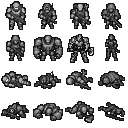
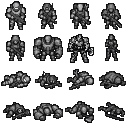
feat: a little spray on every hit a body lives through; fallen sprites all drawn hit-from-the-left and mirrored in the death scene (3.176.0)
- Hit gore: every harmful, non-lethal hit on the operative, an enemy or an ally throws a few drops and a wisp of
  mist (sparks off machines) away from the shooter, about a tenth of a kill, under the same setting; stains stay,
  dark rooms darken them. The presentation marks such impacts with `hit`.
- The user calibrated the eight fallen sprites on a preview page; tools/normalize_fallen_facing.py mirrors the six
  drawn as hit from the right (per-sprite PNGs, atlas cells, atlas.json hashes; idempotent). The killed-in-action
  scene mirrors the fallen sprite when the blow comes from the right.

Changed region(s): [[0.0, 0.5312, 1.0, 0.7188], [0.0, 0.7812, 0.5, 0.9688]]

diff --git a/sw.js b/sw.js
@@ -1,4 +1,4 @@
-const CACHE='ash-protocol-v3-175-1';
+const CACHE='ash-protocol-v3-176-0';
 const FILES=['./src/i18n.js','./src/text-zh-tw.js','./src/text-en.js','./src/localize-dom.js','./src/voices-zh-tw.js','./src/voices-en.js','./src/comms.js','./src/comms-events.js','./src/duty.js','./src/kia.js','./src/kia-art.js','./src/gore.js','./src/gore-art.js','./assets/pixel/comms-v1/egret.png','./assets/pixel/comms-v1/wren.png','./src/screen-tone.js','./src/pixel-text.js','./src/muzzle-flash.js','./src/deck-layout.js','./src/result-copy.js','./src/shotgun.js','./src/story-data.js','./src/unlock-catalog.js','./src/run-unlocks.js','./src/unlock-ui.js','./src/workshop.js','./','./index.html','./style.css','./expansion.css','./src/main.js','./src/controller.js','./src/replay.js','./src/squad.js','./src/rebels.js','./src/detour.js','./src/orders.js','./src/ambush.js','./src/flank.js','./src/line-move.js','./src/personality.js','./src/pounce.js','./src/swarm-fields.js','./src/lines.js','./src/melee-weapons.js','./src/faction-decals.js','./src/color-picker.js','./src/lance.js','./src/field-gear.js','./src/vault.js','./src/screen-shake.js','./src/signal-glitch.js','./src/status-timers.js','./src/blind-fire.js','./src/range-band.js','./src/pits.js','./src/loot-icons.js','./assets/pixel/loot-icons-v1/atlas.png','./assets/pixel/faction-decals-v1/atlas.png','./src/terminal-kinds.js','./src/daily.js','./src/version.js','./src/engine.js','./src/data.js','./src/enemy-data.js','./src/swarm.js','./src/poison.js','./src/purge-review.js','./src/purge-review-ui.js','./src/killhouse-ui.js','./src/swarm-waves.js','./src/swarm-tuning.js','./src/civilians.js','./src/factions.js','./src/faction-catalog.js','./src/enemy-visuals.js','./src/endless.js','./src/endless-ui.js','./src/world.js','./src/map-recipes.js','./src/map-recipes-data.js','./assets/pixel/doors-v1/atlas.png','./src/map-geometry.js','./src/map-population.js','./src/map-merging.js','./src/map-openings.js','./src/map-annexes.js','./src/map-slots.js','./src/scenery.js','./src/barrier-art.js','./assets/pixel/scenery-v1/atlas.png','./src/barriers.js','./src/containers.js','./src/modules.js','./src/missions.js','./src/retreat.js','./src/traces.js','./src/themes.js','./src/walls.js','./src/art-tone.js','./src/materials.js','./src/material-selection.js','./src/material-review.js','./material-review.html','./src/combat.js','./src/cover.js','./src/lighting.js','./src/traits.js','./src/melee-classes.js','./src/melee-ui.js','./src/operator-color.js','./src/throwables.js','./src/prepared.js','./src/skills.js','./src/allies.js','./src/pet-growth.js','./src/pet-ui.js','./src/characters.js','./src/actor-stats.js','./src/portraits.js','./src/camera.js','./src/runtime-enemies.js','./src/nest-art.js','./assets/pixel/nests-v1/atlas.png','./src/unarmed.js','./src/suppression.js','./src/suppression-ui.js','./src/suppressive-fire.js','./src/learning-data.js','./src/learning.js','./src/enemy-affixes.js', './src/elite-enemies.js','./src/affix-ui.js','./src/deploy-ui.js','./src/callout-ui.js','./src/enemy-intents.js','./src/enemy-behavior.js','./src/behavior-tree.js','./src/real-mode.js','./src/callouts.js','./src/killhouse.js','./src/killhouse-maps.js','./src/killhouse-policy.js','./src/killhouse-profile.js','./src/map-styles.js','./assets/pixel/killhouse-v1/atlas.png','./assets/pixel/killhouse-v2/atlas.png','./src/game.js','./src/corner.js','./src/tactics.js','./src/perks.js','./src/storage.js','./src/progression.js','./src/ammunition.js','./src/weapons.js','./src/backup.js','./src/layout.js','./src/target-card.js','./src/presentation.js','./src/actor-visuals.js','./src/class-perks.js','./src/render.js','./src/renderer.js','./src/class-art.js','./assets/pixel/classes-v1/atlas.png','./src/movement-boundaries.js','./src/audio.js','./src/sound-cues.js','./src/music-state.js','./src/audio-grit.js','./src/frame-rate.js','./src/terminal.js','./src/hotkeys.js','./src/flares.js','./assets/audio/sfx/rifle.wav','./assets/audio/sfx/shotgun.wav','./assets/audio/sfx/smg.wav','./assets/audio/sfx/precision.wav','./assets/audio/sfx/plasma.wav','./assets/audio/sfx/hit.wav','./assets/audio/sfx/kill.wav','./assets/audio/sfx/enemy-miss.wav','./assets/audio/sfx/blast.wav','./assets/audio/sfx/footstep.wav','./assets/audio/sfx/reload.wav','./assets/audio/sfx/heal.wav','./assets/audio/sfx/transmission.wav','./assets/audio/sfx/door.wav','./assets/audio/sfx/select.wav','./assets/audio/sfx/lmg.wav','./assets/audio/sfx/creature-attack.wav','./assets/audio/sfx/throw.wav','./assets/audio/sfx/pickup.wav','./assets/audio/sfx/open-case.wav','./assets/audio/sfx/hurt.wav','./assets/icon.svg','./assets/operator.svg','./assets/rifle.svg','./assets/lmg.svg','./assets/thunder.svg','./assets/powerfist.svg','./assets/shotgun.svg','./assets/smg.svg','./assets/sniper.svg','./assets/plasma.svg','./assets/launcher.svg','./assets/pixel/atlas.png','./assets/pixel/terrain-v1/atlas.png','./assets/pixel/walls-v1/atlas.png','./assets/pixel/aftermath.png','./assets/pixel/player.png','./assets/pixel/portraits/ember.png','./assets/pixel/portraits/onyx.png','./assets/pixel/portraits/silver.png','./assets/pixel/portraits/cedar.png','./assets/pixel/portraits/portrait-05.png','./assets/pixel/portraits/portrait-06.png','./assets/pixel/portraits/portrait-07.png','./assets/pixel/portraits/portrait-08.png','./assets/pixel/portraits/portrait-09.png','./assets/pixel/portraits/portrait-10.png','./assets/pixel/portraits/portrait-11.png','./assets/pixel/portraits/portrait-12.png','./assets/pixel/portraits/portrait-13.png','./assets/pixel/portraits/portrait-14.png','./assets/pixel/portraits/portrait-15.png','./assets/pixel/portraits/portrait-16.png','./manifest.webmanifest'];
 self.addEventListener('install',event=>{event.waitUntil(caches.open(CACHE).then(cache=>cache.addAll(FILES.map(url=>new Request(url,{cache:'reload'})))));self.skipWaiting();});
 self.addEventListener('activate',event=>{event.waitUntil(caches.keys().then(keys=>Promise.all(keys.filter(k=>k.startsWith('ash-protocol-')&&k!==CACHE).map(k=>caches.delete(k)))));self.clients.claim();});

diff --git a/src/renderer.js b/src/renderer.js
@@ -31,7 +31,7 @@ import {WALL_ATLAS,drawWall} from './walls.js';
 import {drawTrace} from './traces.js';
 import {drawKiaGround,drawKiaBody,drawKiaAir} from './kia-art.js';
 import {drawBurstAir,Splatter} from './gore-art.js';
-import {enemyBurst,burstLife} from './gore.js';
+import {enemyBurst,hitBurst,burstLife} from './gore.js';
 import {THEMES,themeAt,resolveSprite} from './themes.js';
 import {missionObjects,missionTarget} from './missions.js';
 import {MODULE_TYPES,moduleCells,modulePoint} from './modules.js';
@@ -623,7 +623,9 @@ if((p.hp>0||p.type==='terminal')&&this.sprite(p.type,a,32)){this.objectHealth(p,
   }
   addEffects(effects,elapsed=0){const start=this.time-Math.max(0,elapsed);
     // 3.175.0 kill gore (src/gore.js): a kill with a direction bursts on the far side; how much follows the setting.
-    for(const e of effects)if(e.type==='fall'&&e.actorType!=='player'&&e.blow&&this.gore&&this.goreLevel!=='off'){const g=this.game,seed=((g.seed|0)*31+(g.turn|0)*977+e.to.x*57+e.to.y)|0,burst=enemyBurst(seed,e.blow,{kind:e.gore,size:e.size,elite:e.elite,level:this.goreLevel,style:e.force?.style,damage:e.force?.damage});if(burst)this.gore.push({start,at:{x:e.to.x,y:e.to.y},burst,life:burstLife(burst)*1000});}for(const e of effects)if(e.type==='callout')(this.callouts??=new CalloutBoard()).add(e,start);this.effects.push(...effects.filter(e=>e.type!=='callout').map(e=>({...e,time:start})));this.effects=this.effects.slice(-64);const kicks=shakeImpulses(effects,this.game.player,start);if(this.shakeEnabled)this.shakes=[...liveImpulses(this.shakes,this.time),...kicks].slice(-24);
+    for(const e of effects)if(e.type==='fall'&&e.actorType!=='player'&&e.blow&&this.gore&&this.goreLevel!=='off'){const g=this.game,seed=((g.seed|0)*31+(g.turn|0)*977+e.to.x*57+e.to.y)|0,burst=enemyBurst(seed,e.blow,{kind:e.gore,size:e.size,elite:e.elite,level:this.goreLevel,style:e.force?.style,damage:e.force?.damage});if(burst)this.gore.push({start,at:{x:e.to.x,y:e.to.y},burst,life:burstLife(burst)*1000});}
+    // 3.176.0 hit gore: a small spray for every harmful hit a body lives through.
+    for(const e of effects)if(e.type==='impact'&&e.hit?.blow&&this.gore&&this.goreLevel!=='off'){const g=this.game,seed=((g.seed|0)*37+(g.turn|0)*1009+e.to.x*61+e.to.y*7+this.gore.length)|0,burst=hitBurst(seed,e.hit.blow,{kind:e.hit.gore,size:e.hit.size,level:this.goreLevel,style:e.hit.force?.style,damage:e.damage});if(burst)this.gore.push({start,at:{x:e.to.x,y:e.to.y},burst,life:burstLife(burst)*1000});}for(const e of effects)if(e.type==='callout')(this.callouts??=new CalloutBoard()).add(e,start);this.effects.push(...effects.filter(e=>e.type!=='callout').map(e=>({...e,time:start})));this.effects=this.effects.slice(-64);const kicks=shakeImpulses(effects,this.game.player,start);if(this.shakeEnabled)this.shakes=[...liveImpulses(this.shakes,this.time),...kicks].slice(-24);
     if(this.glitchEnabled){const r=effectGlitches(effects,this.game,start,kicks);this.glitches=[...liveGlitches(this.glitches,this.time),...r.screen].slice(-24);for(const o of r.objects)this.objectGlitches.set(o.key,o);if(r.hit)this.onPlayerHit?.();}}
   // 3.149.0 signal interference: the state-driven glitches, then the whole-frame one.
   glitchFrame(){

diff --git a/src/presentation.js b/src/presentation.js
@@ -86,6 +86,17 @@ export function mergeMoveSteps(steps){
   if(group)merged.push(group);
   return merged;
 }
+// Who stands on `at` after the step and is still alive: the operative, or an enemy or ally (not a pet).
+function livingBody(state,at){
+  if(!at)return null;
+  const p=state.player;if(p&&p.hp>0&&p.x===at.x&&p.y===at.y)return {player:true};
+  const actor=[...(state.enemies||[]),...(state.allies||[])].find(e=>e.hp>0&&e.kind!=='pet'&&e.x===at.x&&e.y===at.y);
+  return actor?{actor}:null;
+}
+function hitInfo(effects,at,body){
+  const types=body.player?['enemyShot']:ENEMY_BLOWS,actor=body.actor;
+  return {blow:killingBlow(effects,at,types),force:goreForce(effects,at,types),gore:body.player?'flesh':goreKind(actor),size:body.player?1:goreSize(actor.maxHp||enemyDef(actor)?.hp)};
+}
 export function planPresentation(steps,{reduceMotion=false}={}){
   const events=[];let time=0;
   if(!reduceMotion)steps=mergeMoveSteps(steps);
@@ -106,6 +117,9 @@ export function planPresentation(steps,{reduceMotion=false}={}){
     // 3.174.0: the operative's fall carries the killing blow's direction for the killed-in-action scene (src/kia.js);
     // 3.175.0: every other fall carries it too, with what the body is made of, for kill gore (src/gore.js).
     for(const dead of deaths)impacts.push({type:'fall',actorType:dead.type,from:{x:dead.x,y:dead.y},to:{x:dead.x,y:dead.y},damage:0,...(dead.type==='player'?{blow:killingBlow(step.effects,dead)}:{blow:killingBlow(step.effects,dead,ENEMY_BLOWS),force:goreForce(step.effects,dead,ENEMY_BLOWS),gore:goreKind(dead),size:goreSize(dead.maxHp||enemyDef(dead)?.hp),elite:Boolean(dead.elite)})});
+    // 3.176.0 hit gore: a harmful hit on a body that lives through it carries what the renderer needs for a small
+    // spray (src/gore.js hitBurst). Hits on props and on bodies that fell this step (their fall bursts) carry nothing.
+    for(let i=0;i<impacts.length;i++){const e=impacts[i],body=e.type==='impact'&&e.damage>0?livingBody(step.after,e.to):null;if(body)impacts[i]={...e,hit:hitInfo(step.effects,e.to,body)};}
     const player=step.before.player,settle=reduceMotion?120:DEATH_MS;
     const far=deaths.filter(dead=>dead.type!=='player'&&step.before.enemies.some(b=>b.id===dead.id&&step.before.visible?.(b))&&Math.max(Math.abs(dead.x-player.x),Math.abs(dead.y-player.y))>=KILL_HOLD_REACH);
     for(const dead of far)impacts.push({type:'cameraHold',from:{x:dead.x,y:dead.y},to:{x:dead.x,y:dead.y},duration:settle+KILL_HOLD_MS,damage:0});

diff --git a/src/gore.js b/src/gore.js
@@ -99,6 +99,18 @@ export function enemyBurst(seed,blow,{kind='flesh',size=1,elite=false,level='ful
     cone:shape.cone*cone,reach:shape.reach*(.8+.2*force)*reach,mistSize:shape.mist*mistSize*Math.sqrt(body),aim});
 }
 
+// 3.176.0 (user request): every harmful hit that a body lives through throws a little — a few drops and a wisp of mist,
+// or a few sparks off a machine, and a pinprick of light — away from the shot. About a tenth of a kill; the kind of
+// round, the harm and the body's size still shape it, a little. The same setting governs it.
+export const HIT_TUNING=Object.freeze({blood:.11,light:.15,glow:.3,reach:.45,mist:.6});
+export function hitBurst(seed,blow,{kind='flesh',size=1,level='full',style='bullet',damage=10}={}){
+  if(!blow||level==='off')return null;
+  const t=HIT_TUNING,shape=GORE_STYLES[style]||GORE_STYLES.bullet,force=goreForceScale(damage);
+  const j=rng(seed^0x27d4eb2f),vary=(lo,hi)=>lo+(hi-lo)*j();
+  return makeBurst(seed,blow,{kind,blood:t.blood*shape.amount*force*Math.sqrt(size)*vary(.75,1.3),glow:t.glow*shape.glow,light:level==='simple'?0:t.light*Math.min(1.5,shape.glow),
+    cone:shape.cone*vary(.8,1.2),reach:t.reach*shape.reach*(.8+.2*force)*vary(.8,1.25),mistSize:t.mist*shape.mist*vary(.8,1.2),aim:vary(-.15,.15)});
+}
+
 // How long a burst stays in the air, in world seconds (after this only its stains remain).
 export const burstLife=burst=>burst?Math.max(.32,...burst.drops.map(d=>d.land),...burst.mist.map(m=>m.life),...burst.sparks.map(s=>s.life)):0;
 // Distance out along a piece's path `s` world seconds after the burst: the pop, then an easing drift.

diff --git a/src/kia-art.js b/src/kia-art.js
@@ -37,8 +37,11 @@ export function drawKiaBody(r,a,character,time,dark=false){
     const q=easeOut(f/.45),tilt=(blow?Math.sign(dx||1)*.3:.15)*q;
     c.save();c.translate(Math.round(a.x+dx*kick*q),Math.round(a.y+dy*kick*q+t*.03*q));c.rotate(tilt);r.classSprite({x:0,y:0},size,character,false,dark);c.restore();
   }else{
-    const q=easeOut((f-.45)/.55);
-    r.classSprite({x:a.x+dx*kick+(1-q)*t*.044,y:a.y+dy*kick-(1-q)*t*.088+t*.03},size,character,true,dark);
+    // 3.176.0: every fallen sprite is drawn as if knocked down from the left (tools/normalize_fallen_facing.py, the
+    // user's calibration); a blow from the right mirrors it, so the body lies the way the slow motion tipped it.
+    const q=easeOut((f-.45)/.55),side=dx<0?-1:1,x=a.x+dx*kick+(1-q)*t*.044*side,y=a.y+dy*kick-(1-q)*t*.088+t*.03;
+    if(side<0){c.save();c.translate(Math.round(x),Math.round(y));c.scale(-1,1);r.classSprite({x:0,y:0},size,character,true,dark);c.restore();}
+    else r.classSprite({x,y},size,character,true,dark);
   }
 }
 function flash(r,a,size,character,color){

diff --git a/src/version.js b/src/version.js
@@ -1,3 +1,3 @@
 // The one place the game version lives (3.44.1). `npm run bump -- x.y.z` rewrites it together with package.json
 // and the sw.js cache name; tests/release.test.mjs fails if the three disagree.
-export const VERSION='3.175.1';
+export const VERSION='3.176.0';

diff --git a/tools/normalize_fallen_facing.py b/tools/normalize_fallen_facing.py
@@ -1,0 +1,52 @@
+"""Makes every class's fallen sprite read as "knocked down by an attack from the left" (3.176.0).
+
+python tools/normalize_fallen_facing.py
+
+The user calibrated the eight fallen sprites on a preview page (2026-09-24,
+https://claude.ai/artifact/MMDyJr4CXFAGRNwRoe2oRL): six were drawn as if hit from the right, so they are mirrored
+here, once. The killed-in-action scene then mirrors the fallen sprite whenever the killing blow comes from the right
+(src/kia-art.js). The per-sprite PNGs and their cells in atlas.png are flipped together and atlas.json records the new
+hashes; a sprite whose hash no longer matches its pre-flip hash is left alone, so running this again changes nothing.
+tools/pixelize_classes.py rebuilds the original (unflipped) art; run this after it if that is ever done.
+"""
+from pathlib import Path
+import hashlib, json
+from PIL import Image, ImageOps
+
+ROOT = Path(__file__).resolve().parents[1]
+OUT = ROOT / 'assets/pixel/classes-v1'
+# The user's calibration: the fallen art of these classes was drawn as if hit from the right.
+FROM_RIGHT = ['soldier', 'recon', 'engineer', 'druid', 'necromancer', 'bulwark']
+
+def sha(path):
+    return hashlib.sha256(path.read_bytes()).hexdigest()
+
+def main():
+    meta_path = OUT / 'atlas.json'
+    meta = json.loads(meta_path.read_text(encoding='utf-8'))
+    record = meta.setdefault('fallen_facing', {'from': 'left', 'calibrated': '2026-09-24', 'flipped': {}})
+    atlas = Image.open(OUT / 'atlas.png').convert('RGBA')
+    changed = []
+    for name in FROM_RIGHT:
+        key = f'dead-{name}'
+        path, entry = OUT / f'{key}.png', meta['sprites'][key]
+        current = sha(path)
+        if name in record['flipped']:
+            if current != record['flipped'][name]['after']:
+                raise SystemExit(f'{key}.png changed since it was flipped; check it by hand')
+            continue
+        sprite = Image.open(path)
+        flipped = ImageOps.mirror(sprite)
+        flipped.info['transparency'] = 0
+        flipped.save(path, transparency=0, bits=4, optimize=True)
+        atlas.paste(ImageOps.mirror(atlas.crop((entry['x'], entry['y'], entry['x'] + 32, entry['y'] + 32))), (entry['x'], entry['y']))
+        entry['sha256'] = sha(path)
+        record['flipped'][name] = {'before': current, 'after': entry['sha256']}
+        changed.append(key)
+    if changed:
+        atlas.save(OUT / 'atlas.png', optimize=True)
+        meta_path.write_text(json.dumps(meta, indent=2) + chr(10), encoding='utf-8')   # the format tools/pixelize_classes.py writes
+    print('flipped:', ', '.join(changed) if changed else 'nothing (already done)')
+
+if __name__ == '__main__':
+    main()

diff --git a/docs/HANDOFF.md b/docs/HANDOFF.md
@@ -1,6 +1,6 @@
 # 快速接手：ASH PROTOCOL（現況手冊）
 
-目前版本 **3.175.1**（擊殺血光每次噴濺各自不同，依彈種、傷害與最大生命（體型）調整，暗房裡跟著變暗；3.175.0 為擊殺血光：所有有方向的擊殺噴出血肉與光，依派系換色，地上血跡烙進不存檔的整層圖層，設定完整／簡化／關閉，`src/gore.js`／`src/gore-art.js`，見 docs/KILL_GORE.md；3.174.0 為幹員陣亡演出：凍結、拉近、血霧與光、世界慢動作倒地、管制員呼叫與損失報告，`src/kia.js`／`src/kia-art.js`，見 docs/STORY.md 第 8 節；3.173.0 為戰場上的通訊框改成蓋住標題列的細條（`commsMarkup(message,{compact:true})`，通訊層掛在 `.battle-header`），簡報維持大框，見 docs/STORY.md 第 8 節；3.172.0 為倒數加快、點一下關閉，訊息可指定 `seconds`；白鷺的臉譜置中並放大到碰到框，見 docs/STORY.md 第 8 節；3.171.0 為鷦鷯的 15 句台詞與表情，使用者在審稿頁定稿，見 docs/STORY.md 第 8 節；3.170.0 為白鷺與鷦鷯的 4×4 像素臉譜接進通訊框（素材 assets/pixel/comms-v1，來源與流程 art/comms-v1），修正 3.168.0 起任務簡報關閉後仍留在戰場上的問題；3.169.0 為通訊輪值與提示：白鷺／鷦鷯／監視官依日期輪值、存進這局（SAVE 71），戰場事件（小隊重部署與已就緒、投彈、頭目初見、被包抄、研究員、每層初次遇敵）依頻率規則觸發，台詞先有白鷺 14 句，見 docs/STORY.md 第 8 節；3.168.2 為通訊框的訊息帶說話的人、表情與內容，當班的人由 `dutySpeaker` 決定；3.168.1 為通訊框的倒數白線與紀錄鉤子 `COMMS_HOOKS`、英文標示 work in progress 與待補清單 docs/TEXT_INVENTORY.md 第十四節；3.168.0 為新任務開場的全螢幕任務簡報與共用的管制員通訊框 `src/comms.js`，見 docs/STORY.md 第 8 節；英文漏翻補齊：寫成跳脫字元的中文，見 docs/TEXT_INVENTORY.md 第十三節；3.167.1 為英文介面照使用者審稿精簡 227 句、盲射紀錄拿掉「看不到結果」、橫向繼續鈕不再送出空指令，見 docs/TEXT_INVENTORY.md 第十二節；3.167.0 為中英雙語：設定頁切換語言，全部文字進語言表、每句有英文，術語表在 docs/GLOSSARY.md，見 docs/TEXT_INVENTORY.md 第十一節；3.166.1 為操作指南與設定頁照使用者定稿精簡；3.166.0 為語言表核心：拼接句與單位句改成整句樣板、共 276 句，畫面文字逐字不變，見 docs/TEXT_INVENTORY.md 第九節；3.165.2 為地面的區域標字一律英文，補給房改成 AMMO／MEDICAL／ARMOR；翻譯準備的文本盤點在 docs/TEXT_INVENTORY.md；3.165.1 為射程黃框改成輕提示；3.165.0 為氣泡雜訊、射程外黃框、較矮的坑洞欄杆、自動改鎖設定；3.164.0 為坑洞／天井；3.163.0 為幹員的對話框：無效操作與提醒；3.162.0 為武器鈕：一鍵開武器分頁；3.161.0 為技能／道具／投擲鈕在演出中讀即時狀態；3.160.0 為狂戰士的毒無效改成抗毒一階；3.159.0 為預警改成標定：0 階就標記、兩條升級線各加持續、架槍精通換成標定壓制；3.158.0 為狂戰士天生壓制抗性與毒無效、近戰職業開局手上拿槍；3.157.0 為影步的撞擊近戰修正、忍者開局帶滿誘餌／地雷／繩索；3.156.0 為德魯伊與死靈法師暫時下架、職業解鎖 100 點；3.155.0 為短管詞條、忍者貼身射擊、士兵與工程師的護甲板、工程師機體自帶彈藥；3.154.0 為掉落物像素圖示；3.153.0 為派系檢討後的微調：有效距離的死區、小隊 6 人、督戰官處決半徑、盲射不疊距離懲罰；3.152.0 為有效距離：遠近都會掉命中，敵人會走進自己的距離；3.151.0 為狀態剩餘時間、技能實際數值、遺體、盲射；3.150.0 為待辦清理；3.149.0 為訊號干擾；3.148.1 為地雷與誘餌的落點可以用方向鍵選；3.148.0 為升級 D、抗失能與敏捷學習資料、紅外線護目鏡；3.147.0 為畫面震動與色偏殘影；3.146.0 為鑰匙卡與保險室；3.145.0 為壓制在自己行動完才衰減、敵人會開槍引爆看過的地雷；3.144.0 為誘餌、地雷、外骨骼；3.143.0 為預警不再洩漏位置、德魯伊餵養留在背包；3.142.1 為貫穿用主目標的命中率、環境傷害的措辭；3.142.0 為電漿步槍詞條「速射」與實玩後的修正；3.141.1 為霰彈槍不再抽到追獵；3.141.0 為霰彈槍彈丸、電漿步槍改版、限定掉落詞條貫穿與爆裂；3.140.0 為幹員塗裝選色器：色輪、明度與 40% 阻擋；3.139.1 為設定拿掉幹員塗裝濃度，塗裝一律完整顏色；3.139.0 為派系痕跡：地板與牆面零散的派系素材，純外觀；3.138.0 為通用升級：次數變少、每階變小，SAVE 65；3.137.0 為難度改版：簡單與標準，SAVE 64；3.136.3 為狂戰士新站姿：腰前橫持長柄斧；3.136.2 為掉落物跟著地圖縮小、太小時隱藏；3.136.1 為修正掉落的繩索與夜視鏡顯示 undefined；3.136.0 為近戰武器、撞擊武器選擇、攜帶上限、難以治療調整，SAVE 63；3.135.0 為三類終端、夜視鏡改為掉落、繩索，SAVE 62；3.134.0 為蟲族戰場效果：毒霧、酸液、孢子煙；3.133.0 為個性表、堅守、蟲族撲擊、幼蟲矮小；3.132.0 為命令第三階段：小隊、側襲、直線移動、突進，SAVE 61；3.131.0 為命令第二階段：撤退與逃跑；3.130.0 為命令與伏擊；3.129.0 為迂迴特性；3.128.1 為小隊兩人推進、落後的人繼續走；3.128.0 為小隊據點：每層兩組固定小隊；3.127.2 為強徵兵命中 −20、小隊保證射程、警告真五回合、掉落物修正；3.127.1 為督戰官先警告再躲、強徵兵台詞、歸隊氣泡；3.127.0 為叛軍：躲藏、嘲笑、督戰官、強徵兵，SAVE 59，使用者設計、Claude 實作；3.126.0 為交叉掩護推進；3.125.0 為小隊長與已就緒；3.124.0 為文字版與操作紀錄重播、鉤舌拉扯後存檔讀不回來的修正；3.123.0 為照明彈；3.122.0 為角色精靈圖原色加外框（Codex 美術）；3.121.0 為鍵盤熱鍵設定與按鈕熱鍵提示；3.120.0 為終端經濟改版；3.119.0 為畫面更新頻率設定；3.118.0 為第四輪 P1 六項音效、訊號雜訊試做、離線快取與畫面明度修正；3.117.0 為音樂與音效接進遊戲、升級卡片縮小字；3.116.0 為槍口火焰、畫面明度、塗裝濃度、VHS 不再提亮；3.115.0 為擊殺頓點、鏡頭緩動、升級通訊、VHS 濾鏡、霰彈與電池補給；3.114.0 為介面語氣與繼續投入幹員；3.113.0 為職業技能不再能用學習資料學；3.112.0 為霰彈槍錐形射擊；3.111.0 為精準步槍要瞄準、榴彈發射器改打地板；3.110.1 為彈藥砍到三分之一；3.110.0 為器材箱；3.109.0 為摺疊掩體；3.108.0 為佩戴型道具與夜視鏡；3.107.0 為消耗品可直接從背包使用；3.106.0 為修復噴劑與腎上腺素；3.105.0 為顯形距離；3.104.0 為訊息列併進標題列與假呼吸；3.103.1 為忠誠者與叛軍分開命名；3.103.0 為投放詞條與敵方浮游彈藥；3.102.0 為按鈕位置可自訂；3.101.0 為格狀操作區；3.100.1 為武器比較的「收進空格」移到上排；3.100.0 為叛軍詭雷箱，SAVE 51；3.99.0 為 KILL HOUSE 整備層放 100 廢料；3.98.1 為移除右上角的 ×、禁止縮放、標題與結算改回整頁；3.98.0 為操作區排版與方向鍵大小設定；3.97.3 為升級三選一改貼畫面上緣；3.97.2 為選單底部抽屜；3.97.1 為手機介面修正；3.97.0 為手機介面；3.96.0 為工坊第 6 階段修理；3.95.0 為工坊第 5 階段頭目藍圖；3.94.0 為工坊第 4 階段敵方藍圖；3.93.0 為工坊第 3 階段武器掛載；3.92.1 為浮游彈藥不再避開玩家；3.92.0 為工坊第 2 階段浮游彈藥；3.91.0 為第 1 階段；3.90.0 解鎖規則由 Codex 實作、Claude 代為提交，3.90.1 為 Claude 的解鎖介面與複查修正）（最新提交以 `git log origin/main` 為準）。這份手冊只寫現在的樣子。逐版經過看 [CHANGELOG](CHANGELOG.md)；3.44.0 以前的逐版接手段落原文封存在 [archive/handoff-to-3.44.md](archive/handoff-to-3.44.md)。
+目前版本 **3.176.0**（每次受傷都有迷你噴濺；八張倒地圖統一成「被左邊打倒」（使用者校準，`tools/normalize_fallen_facing.py`），陣亡演出依攻擊來向鏡射；3.175.1 為擊殺血光每次噴濺各自不同，依彈種、傷害與最大生命（體型）調整，暗房裡跟著變暗；3.175.0 為擊殺血光：所有有方向的擊殺噴出血肉與光，依派系換色，地上血跡烙進不存檔的整層圖層，設定完整／簡化／關閉，`src/gore.js`／`src/gore-art.js`，見 docs/KILL_GORE.md；3.174.0 為幹員陣亡演出：凍結、拉近、血霧與光、世界慢動作倒地、管制員呼叫與損失報告，`src/kia.js`／`src/kia-art.js`，見 docs/STORY.md 第 8 節；3.173.0 為戰場上的通訊框改成蓋住標題列的細條（`commsMarkup(message,{compact:true})`，通訊層掛在 `.battle-header`），簡報維持大框，見 docs/STORY.md 第 8 節；3.172.0 為倒數加快、點一下關閉，訊息可指定 `seconds`；白鷺的臉譜置中並放大到碰到框，見 docs/STORY.md 第 8 節；3.171.0 為鷦鷯的 15 句台詞與表情，使用者在審稿頁定稿，見 docs/STORY.md 第 8 節；3.170.0 為白鷺與鷦鷯的 4×4 像素臉譜接進通訊框（素材 assets/pixel/comms-v1，來源與流程 art/comms-v1），修正 3.168.0 起任務簡報關閉後仍留在戰場上的問題；3.169.0 為通訊輪值與提示：白鷺／鷦鷯／監視官依日期輪值、存進這局（SAVE 71），戰場事件（小隊重部署與已就緒、投彈、頭目初見、被包抄、研究員、每層初次遇敵）依頻率規則觸發，台詞先有白鷺 14 句，見 docs/STORY.md 第 8 節；3.168.2 為通訊框的訊息帶說話的人、表情與內容，當班的人由 `dutySpeaker` 決定；3.168.1 為通訊框的倒數白線與紀錄鉤子 `COMMS_HOOKS`、英文標示 work in progress 與待補清單 docs/TEXT_INVENTORY.md 第十四節；3.168.0 為新任務開場的全螢幕任務簡報與共用的管制員通訊框 `src/comms.js`，見 docs/STORY.md 第 8 節；英文漏翻補齊：寫成跳脫字元的中文，見 docs/TEXT_INVENTORY.md 第十三節；3.167.1 為英文介面照使用者審稿精簡 227 句、盲射紀錄拿掉「看不到結果」、橫向繼續鈕不再送出空指令，見 docs/TEXT_INVENTORY.md 第十二節；3.167.0 為中英雙語：設定頁切換語言，全部文字進語言表、每句有英文，術語表在 docs/GLOSSARY.md，見 docs/TEXT_INVENTORY.md 第十一節；3.166.1 為操作指南與設定頁照使用者定稿精簡；3.166.0 為語言表核心：拼接句與單位句改成整句樣板、共 276 句，畫面文字逐字不變，見 docs/TEXT_INVENTORY.md 第九節；3.165.2 為地面的區域標字一律英文，補給房改成 AMMO／MEDICAL／ARMOR；翻譯準備的文本盤點在 docs/TEXT_INVENTORY.md；3.165.1 為射程黃框改成輕提示；3.165.0 為氣泡雜訊、射程外黃框、較矮的坑洞欄杆、自動改鎖設定；3.164.0 為坑洞／天井；3.163.0 為幹員的對話框：無效操作與提醒；3.162.0 為武器鈕：一鍵開武器分頁；3.161.0 為技能／道具／投擲鈕在演出中讀即時狀態；3.160.0 為狂戰士的毒無效改成抗毒一階；3.159.0 為預警改成標定：0 階就標記、兩條升級線各加持續、架槍精通換成標定壓制；3.158.0 為狂戰士天生壓制抗性與毒無效、近戰職業開局手上拿槍；3.157.0 為影步的撞擊近戰修正、忍者開局帶滿誘餌／地雷／繩索；3.156.0 為德魯伊與死靈法師暫時下架、職業解鎖 100 點；3.155.0 為短管詞條、忍者貼身射擊、士兵與工程師的護甲板、工程師機體自帶彈藥；3.154.0 為掉落物像素圖示；3.153.0 為派系檢討後的微調：有效距離的死區、小隊 6 人、督戰官處決半徑、盲射不疊距離懲罰；3.152.0 為有效距離：遠近都會掉命中，敵人會走進自己的距離；3.151.0 為狀態剩餘時間、技能實際數值、遺體、盲射；3.150.0 為待辦清理；3.149.0 為訊號干擾；3.148.1 為地雷與誘餌的落點可以用方向鍵選；3.148.0 為升級 D、抗失能與敏捷學習資料、紅外線護目鏡；3.147.0 為畫面震動與色偏殘影；3.146.0 為鑰匙卡與保險室；3.145.0 為壓制在自己行動完才衰減、敵人會開槍引爆看過的地雷；3.144.0 為誘餌、地雷、外骨骼；3.143.0 為預警不再洩漏位置、德魯伊餵養留在背包；3.142.1 為貫穿用主目標的命中率、環境傷害的措辭；3.142.0 為電漿步槍詞條「速射」與實玩後的修正；3.141.1 為霰彈槍不再抽到追獵；3.141.0 為霰彈槍彈丸、電漿步槍改版、限定掉落詞條貫穿與爆裂；3.140.0 為幹員塗裝選色器：色輪、明度與 40% 阻擋；3.139.1 為設定拿掉幹員塗裝濃度，塗裝一律完整顏色；3.139.0 為派系痕跡：地板與牆面零散的派系素材，純外觀；3.138.0 為通用升級：次數變少、每階變小，SAVE 65；3.137.0 為難度改版：簡單與標準，SAVE 64；3.136.3 為狂戰士新站姿：腰前橫持長柄斧；3.136.2 為掉落物跟著地圖縮小、太小時隱藏；3.136.1 為修正掉落的繩索與夜視鏡顯示 undefined；3.136.0 為近戰武器、撞擊武器選擇、攜帶上限、難以治療調整，SAVE 63；3.135.0 為三類終端、夜視鏡改為掉落、繩索，SAVE 62；3.134.0 為蟲族戰場效果：毒霧、酸液、孢子煙；3.133.0 為個性表、堅守、蟲族撲擊、幼蟲矮小；3.132.0 為命令第三階段：小隊、側襲、直線移動、突進，SAVE 61；3.131.0 為命令第二階段：撤退與逃跑；3.130.0 為命令與伏擊；3.129.0 為迂迴特性；3.128.1 為小隊兩人推進、落後的人繼續走；3.128.0 為小隊據點：每層兩組固定小隊；3.127.2 為強徵兵命中 −20、小隊保證射程、警告真五回合、掉落物修正；3.127.1 為督戰官先警告再躲、強徵兵台詞、歸隊氣泡；3.127.0 為叛軍：躲藏、嘲笑、督戰官、強徵兵，SAVE 59，使用者設計、Claude 實作；3.126.0 為交叉掩護推進；3.125.0 為小隊長與已就緒；3.124.0 為文字版與操作紀錄重播、鉤舌拉扯後存檔讀不回來的修正；3.123.0 為照明彈；3.122.0 為角色精靈圖原色加外框（Codex 美術）；3.121.0 為鍵盤熱鍵設定與按鈕熱鍵提示；3.120.0 為終端經濟改版；3.119.0 為畫面更新頻率設定；3.118.0 為第四輪 P1 六項音效、訊號雜訊試做、離線快取與畫面明度修正；3.117.0 為音樂與音效接進遊戲、升級卡片縮小字；3.116.0 為槍口火焰、畫面明度、塗裝濃度、VHS 不再提亮；3.115.0 為擊殺頓點、鏡頭緩動、升級通訊、VHS 濾鏡、霰彈與電池補給；3.114.0 為介面語氣與繼續投入幹員；3.113.0 為職業技能不再能用學習資料學；3.112.0 為霰彈槍錐形射擊；3.111.0 為精準步槍要瞄準、榴彈發射器改打地板；3.110.1 為彈藥砍到三分之一；3.110.0 為器材箱；3.109.0 為摺疊掩體；3.108.0 為佩戴型道具與夜視鏡；3.107.0 為消耗品可直接從背包使用；3.106.0 為修復噴劑與腎上腺素；3.105.0 為顯形距離；3.104.0 為訊息列併進標題列與假呼吸；3.103.1 為忠誠者與叛軍分開命名；3.103.0 為投放詞條與敵方浮游彈藥；3.102.0 為按鈕位置可自訂；3.101.0 為格狀操作區；3.100.1 為武器比較的「收進空格」移到上排；3.100.0 為叛軍詭雷箱，SAVE 51；3.99.0 為 KILL HOUSE 整備層放 100 廢料；3.98.1 為移除右上角的 ×、禁止縮放、標題與結算改回整頁；3.98.0 為操作區排版與方向鍵大小設定；3.97.3 為升級三選一改貼畫面上緣；3.97.2 為選單底部抽屜；3.97.1 為手機介面修正；3.97.0 為手機介面；3.96.0 為工坊第 6 階段修理；3.95.0 為工坊第 5 階段頭目藍圖；3.94.0 為工坊第 4 階段敵方藍圖；3.93.0 為工坊第 3 階段武器掛載；3.92.1 為浮游彈藥不再避開玩家；3.92.0 為工坊第 2 階段浮游彈藥；3.91.0 為第 1 階段；3.90.0 解鎖規則由 Codex 實作、Claude 代為提交，3.90.1 為 Claude 的解鎖介面與複查修正）（最新提交以 `git log origin/main` 為準）。這份手冊只寫現在的樣子。逐版經過看 [CHANGELOG](CHANGELOG.md)；3.44.0 以前的逐版接手段落原文封存在 [archive/handoff-to-3.44.md](archive/handoff-to-3.44.md)。
 
 **本檔何時更新**：架構、模組、存檔格式、發版流程或分工改變時。一般版本只更新 CHANGELOG、對應規格、報告和驗證紙條最新段（見 [RELEASE.md](RELEASE.md)）。
 
@@ -94,6 +94,7 @@
 | `index.html`、`style.css`、`expansion.css` | 頁面與樣式 |
 | `sw.js` | 離線快取；新增 `src/` 模組要加進 `FILES`（測試會擋） |
 | `tools/build.mjs`、`tools/bump-version.mjs`、`tools/github-release.py`、`tools/balance.mjs` | 建置；改版本號；查部署；無畫面遊玩機器人 |
+| `tools/normalize_fallen_facing.py` | 倒地圖方向（3.176.0）：依使用者的校準把六張倒地圖左右翻轉，讓八張都是「被左邊打倒」；翻 `dead-*.png` 與 `atlas.png` 的格子，`atlas.json` 的 `fallen_facing` 記雜湊，重跑不會翻回來。重跑 `pixelize_classes.py` 之後要再跑它 |
 | `tools/pixelize_comms_portraits.py` | 管制員臉譜（3.170.0）：GPT Image 原圖 → 量格線取像素中心、合併相似色、壓進 Mega Drive 色票、16 色、64×64，框人物（清鄰格碎片、頭部置中、頭頂同高、下緣貼框；`ENLARGE` 的人用重複線條放大），輸出到 art/comms-v1/<代號>/；`--install` 複製到 assets/pixel/comms-v1，遊戲裡的檔案被手動改過就拒絕覆蓋（`--force` 才蓋，紀錄在 art/comms-v1/installed.json）。流程見 art/comms-v1/README.md |
 | `server.mjs` | 本機靜態伺服器 |
 

diff --git a/qa/results/2026-09-24-claude-3.176.0-hit-gore-facing.md b/qa/results/2026-09-24-claude-3.176.0-hit-gore-facing.md
@@ -1,0 +1,30 @@
+# 3.176.0 — 每次受擊的迷你噴濺；倒地圖方向統一與陣亡鏡射
+
+2026-09-24，Claude。規格：docs/KILL_GORE.md（受擊）、docs/STORY.md 第 8 節（倒地方向）、art/classes-v1/README.md（3.176.0）。
+
+## 需求
+
+- 使用者：「如果每次受擊都有一點效果的話呢，例如說超小但可見的血霧／火花之類的。」Claude 提議（觸發範圍、大小、設定、負擔），使用者：「受擊效果這提議很棒，就做吧」。
+- 使用者：「幹員陣亡時因為現在有慢動作，如果倒下的方向和 sprite 的倒地方向反過來的話很怪，能不能讓我校準現在的陣亡 sprite，讓他們統一變成由左邊的攻擊打倒的狀態，然後你的幹員倒地演出就依照攻擊來向左右鏡射？」Claude 做了校準頁 <https://claude.ai/artifact/MMDyJr4CXFAGRNwRoe2oRL>（每張選受擊方向，下方即時重播左、右來的攻擊），使用者：「都點好了，有兩個跟人家不一樣而已，而且我在想你是不是直接編輯圖片會比較便宜」「做完一起推上去」。
+
+## 做法
+
+- 校準結果（資料庫 `facing`）：士兵、偵察兵、工程師、德魯伊、死靈法師、重裝兵＝被右邊打倒；狂戰士、忍者＝被左邊打倒。
+- `tools/normalize_fallen_facing.py`（新）：把六張左右翻轉，`dead-*.png`（4-bit 索引、索引 0 透明，照原工具的存法）與 `atlas.png` 的格子一起翻；`atlas.json` 的 `sprites` 雜湊更新、`fallen_facing` 記翻轉前後雜湊；再跑一次不動（已驗）。`atlas.json` 照原工具的格式（縮排 2）寫，差異只有雜湊與紀錄。
+- `src/kia-art.js`：倒地圖在致命一擊從右邊來（dx < 0）時鏡射，落定的小位移也跟著鏡射；左邊來或沒有方向照原樣。
+- `src/gore.js`：`HIT_TUNING` 與 `hitBurst`（量約擊殺的十分之一，彈種、傷害、體型、個體差異影響較小）。
+- `src/presentation.js`：`livingBody`／`hitInfo`：有傷害的命中若落在活著的身體（幹員、敵人、隊友，不含寵物）上，換成帶 `hit` 的新效果物件；被打死的交給倒下噴濺，物件不算。
+- `src/renderer.js`：`addEffects` 收到帶 `hit` 的命中就產生迷你噴濺，照「擊殺血光」設定。
+
+## 驗證（Claude 自己跑的）
+
+- `tests/gore.test.mjs`：迷你噴濺的量（平均 2.5～6 滴、霧最多約 2 團、機械火花較多、打得重與體型大較多、飛得比擊殺近、簡化無火花、關閉與無方向沒有）；時間軸只替活著的身體帶 `hit`（打死的、物件沒有；幹員被打時方向來自射手）。
+- `tests/kia.test.mjs`：`atlas.json` 記錄翻轉的正好是使用者的六張、記錄的雜湊與目前圖檔一致；`drawKiaBody` 在右邊來時鏡射、左邊來或沒有方向時不鏡射（假的畫布記錄呼叫）。
+- `tests/art.test.mjs`：翻轉後的圖仍是 32px、4-bit 索引、透明、灰階色盤，雜湊與 `atlas.json` 一致。
+- 完整 `npm test`：1293 通過、0 失敗。
+- 目視：翻轉後八張倒地圖放大並排，六張已鏡像。
+- 瀏覽器（本機 `?test=1`、375×812）：測試存檔讓幹員打中 60 HP 的步槍兵（沒打死）、敵人還擊命中幹員 18：繪圖器產生兩個迷你噴濺（敵人 6 滴 2 霧、幹員 4 滴 1 霧），地上多 5 格血跡。當時 QA 的設定是「簡化」（前一次測設定按鈕留下的），所以沒有火花，符合設計；已改回完整。陣亡測試存檔（射手在右）：致命一擊方向 dx = −0.89，程式走鏡射；截圖太小看不清頭的方向，這一項以方向值與單元測試為準。
+
+## 未驗
+
+- 實機上各職業從左、從右陣亡的躺向；連射武器的受擊噴濺量是否剛好。

diff --git a/docs/KILL_GORE.md b/docs/KILL_GORE.md
@@ -60,6 +60,15 @@
 - 空中的血滴與血霧：每一塊依它當下所在的格子調暗。光暈、光束、火花是光，在暗處保留七成。
 - 陣亡演出的噴濺與血泊也一樣。照明彈照亮時跟著變亮（同一個 `isDark`）。
 
+## 受擊（3.176.0）
+
+使用者：「如果每次受擊都有一點效果的話呢，例如說超小但可見的血霧／火花之類的。」照 Claude 的提議做：
+
+- 每一次有傷害、目標沒被打死的命中（敵人、隊友、幹員都算）都噴一點：平均 3～6 滴血、1～2 團小霧，機械約 5 道火花，一點小亮光；方向背離射手、顏色依派系。約是擊殺的十分之一（`HIT_TUNING`、`hitBurst`）。彈種、傷害、體型與個體差異照樣影響，但幅度小。
+- 打死的那一下不另外噴（交給倒下的噴濺）；打在箱子、路障等物件上不噴。
+- 落地的血滴一樣留在血跡圖層，暗房一樣變暗；同一個「擊殺血光」設定管：簡化沒有光與火花，關閉沒有。
+- 演出時間軸替每個命中效果帶 `hit`（`blow`、`force`、`gore`、`size`），繪圖器收到就產生。
+
 ## 設定
 
 設定頁「擊殺血光」：完整（預設）→ 簡化 → 關閉，存在這台裝置（`ash-gore`），不進存檔。系統要求減少動態時，完整會當成簡化（按鈕上會註明）。簡化是只有血肉噴濺，沒有光與火花；關閉是維持原本的倒下。只影響敵人；幹員陣亡演出永遠是完整的。
@@ -83,6 +92,6 @@
 
 - `src/gore.js`：`GORE_PALETTES`、`goreKind`、`GORE_SETTINGS`／`goreLevel`、`GORE_TUNING`、`GORE_STYLES`／`goreForce`／`goreForceScale`（3.175.1）、`makeBurst`（固定種子；`cone`、`reach`、`mistSize`、`aim`）、`enemyBurst`（彈種、威力、體型與個體差異）、`goreSize`、`burstLife`、`burstReach`。
 - `src/gore-art.js`：`drawBurstAir`（光、火花、霧、空中的血滴；`shade` 依格子調暗）與 `Splatter`（整層血跡圖層，記下有血的格子、逐格依亮暗畫出）。
-- `src/presentation.js`：每個倒下事件帶 `blow`（`src/kia.js` 的 `killingBlow`；敵人被幹員或隊友的 `shot` 與彼此的 `enemyShot` 打中；幹員的射擊本身傷害為 0、傷害在同格的 `impact`，所以只要那格這一步受了傷、沒落空的射擊就算）、`force`（彈種與傷害，3.175.1）、`gore`、`size`（最大生命算出的體型）、`elite`。
+- `src/presentation.js`：有傷害且目標活著的命中帶 `hit`（3.176.0）；每個倒下事件帶 `blow`（`src/kia.js` 的 `killingBlow`；敵人被幹員或隊友的 `shot` 與彼此的 `enemyShot` 打中；幹員的射擊本身傷害為 0、傷害在同格的 `impact`，所以只要那格這一步受了傷、沒落空的射擊就算）、`force`（彈種與傷害，3.175.1）、`gore`、`size`（最大生命算出的體型）、`elite`。
 - `src/renderer.js`：`addEffects` 收到敵人的倒下就產生噴濺（依 `goreLevel`）；地面在畫角色之前烙印並畫出圖層；空中在特效層之後畫、被牆擋住；在空中的時間過了就移除。
 - `src/controller.js`：設定的讀寫與按鈕；新局、讀檔、重播載入時清空。

diff --git a/docs/STORY.md b/docs/STORY.md
@@ -175,6 +175,7 @@
     - 監視官兩組都是「……」。兩句都停留一般台詞的 1.4 倍（訊息的 `seconds`）；呼叫幹員那句不能點掉。
   - 不能跳過（暫定）；「減少動態」設定不影響這段；擊殺屋照播但沒有管制員；操作紀錄重播播演出、不播語音。擊殺屋之後可能改成同一條流程、由播報員說固定台詞（使用者，之後討論）。
   - 結果在幹員死亡的瞬間就記錄，演出只是延後結算畫面出現；演出中關掉網頁不會失去結果。
+  - 倒地方向（3.176.0，使用者校準）：八張倒地圖都改成「被左邊打倒」（art/classes-v1/README.md），致命一擊從右邊來時鏡射，所以慢動作傾倒的方向與最後躺的方向一致；沒有方向的死法照原樣。
 - **備用台詞，還沒接進遊戲**（使用者 2026-09-24：態度轉變先當備用）：設施紀錄 6 份起的開場「連線確認。……你上次帶回來的紀錄，我讀完了。合約內容如下。」／"Link confirmed. ...I finished the record you brought back. The contract is below."
 - **3.171.0 鷦鷯的台詞**（Claude 擬稿，使用者在審稿頁 <https://claude.ai/artifact/KDt2cvpjsQYM8JoRAfoe81> 逐句選定，資料庫 `decisions` 另有 `expression` 欄位；使用者沒有換表情）：
   - 觸發時機與頻率跟白鷺相同，共 15 句：開場 3、重部署 2、已就緒 2、投彈 2、頭目 2、被包抄 2、研究員 2。

diff --git a/給驗證者的紙條.md b/給驗證者的紙條.md
@@ -36,6 +36,7 @@
 
 | 範圍 | 版本 | 還沒驗的 | 狀態 |
 | --- | --- | --- | --- |
+| 受擊迷你噴濺；倒地圖方向與陣亡鏡射 | 3.176.0 | 衝鋒槍、霰彈連續命中時的量是否剛好；幹員被打時的噴濺；八個職業陣亡時（從左、從右）躺的方向是否都對；「查看最後戰場」的遺體方向 | 未驗 |
 | 擊殺血光的個體差異與暗房 | 3.175.1 | 同一把槍連殺幾隻看起來是否各不相同；散彈、狙擊、電漿、近戰、手榴彈的差別；暗房裡血跡與血霧變暗、照明彈照亮後變亮 | 未驗 |
 | 擊殺血光 | 3.175.0 | 實機手機上的流暢度（一次殺多隻、蟲群）、各派系顏色（人類、蟲族、機械）、菁英與頭目、手榴彈炸死的方向；設定三段切換；「減少動態」時是簡化；換層或讀檔後噴濺血跡消失、只留原本的痕跡 | 未驗 |
 | 幹員陣亡演出 | 3.174.0 | 實際死一次：凍結與拉近、血霧方向（射擊、爆炸）、慢動作中其他子彈變慢、中毒死不噴發、倒地後停頓、呼叫幹員不能點掉、之後才進結算與損失報告；擊殺屋陣亡沒有語音；「查看最後戰場」仍看得到屍體與血跡 | 未驗 |
